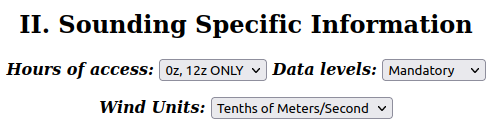
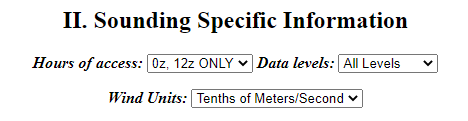
cambios en aermet-mModifico parte de la explicación y mudo aersurface a su propio archivo. En el tutorial aermet solo quedaría el surface.out y el detalle de como llegar al archivo va al aersurface.md

Changed region(s): [[0.0, 0.4215, 0.9872, 0.6198], [0.0299, 0.0992, 0.9573, 0.2975], [0.1795, 0.719, 0.8077, 0.8926]]

diff --git a/tut/aersurface.md b/tut/aersurface.md
@@ -1,0 +1,93 @@
+---
+title: AERSURFACE
+description: Tutorial de preprocesamiento de propiedades de superficie.
+nav_order: 0
+---
+
+
+# Aermod: AERSURFACE
+
+> Tutorial para el preprocesamiento de datos de superficie aermod (**AERSURFACE**)
+
+
+El **AERSURFACE** es un preprocesador que nos permite estimar parámetros de superficie representativos para las cercanías de la estación meteorológica, usando datos de usos de suelo, canopeo e impermeabilidad del suelo.
+Este programa relaciona una clasificación de cobertura del suelo (pastizal, urbano, agua), a una distancia de la estación meteorológica de superficie, para inferir los siguientes parámetos:
+
+1. albedo &alpha;
+2. proporción (ratio) de bowen $B_{0}$
+3. largo de rugosidad de superficie $z_{0}$ 
+
+Este programa necesita datos que requieren un formato de clasificación particular del servicio geológico de estados unidos ([NLCD](https://www.mrlc.gov/)) y que en consecuencia no esta disponible en nuestro país. 
+
+Esta clasificación de cobertura del suelo el USGS define las sifuientes clases:
+
+
+<!-- https://grasswiki.osgeo.org/wiki/File:NLCD_2016_Land_Cover_example.png -->
+|Clase|Descrpición|
+|---|---|
+11|Open Water
+12|Perennial Snow/Ice
+21|Developed, Open Space
+22|Developed, Low Intensity
+23|Developed, Medium Intensity
+24|Developed, High Intensity
+31|Barren Land
+41|Deciduous Forest
+42|Evergreen Forest
+43|Mixed Forest
+52|Shrub/Scrub
+71|Herbaceous
+81|Hay/Pasture
+82|Cultivated Crops
+90|Woody Wetlands
+95|Emergent Herbaceous Wetlands
+
+Para determinar la clase dominante se debe analizar la siguiente información.
+
+1. albedo &alpha;:
+    - Media aritmética de región de 10 km x 10 km centrada en la esración meeorológica. 
+
+2. proporción (ratio) de bowen $B_{0}$
+   - Media *geométrica* de región de 10 km x 10 km centrada en la esración meeorológica.
+ 
+3. largo de rugosidad de superficie $z_{0}$
+   - asd
+
+![aersurface_radio](imgs/aersurface_radio.png)
+
+Cada seccion va a representar una cobertura distinta, con parámetros de albedo, bowen y rugosidad distintas. 
+
+Por estos motivos estamos imposibilitados a usarlo directamente.
+La alternativa de generación de esta información es a partir del procesamiento realizado por el usuario teniendo en cuenta las siguientes directivas. El objetivo es generar el archivo ``AERSURFACE.OUT`` de forma manual, ya que este es un archivo de texto con algunas especificaciones, por ejemplo este es el contenido de un ``AERSURFACE.OUT``:
+
+```Text
+ FREQ_SECT  SEASONAL  3
+   SECTOR   1  0   30
+   SECTOR   2  30  360
+**------------------------------------------------|
+**          | season | section | a0  | b0  | z0   |
+**----------|--------|---------|-----|-----|------|
+   SITE_CHAR    1        1      0.18  0.70  0.01
+   SITE_CHAR    2        1      0.15  0.30  0.015
+   SITE_CHAR    3        1      0.15  0.50  0.02
+   SITE_CHAR    4        1      0.15  0.70  0.015
+   SITE_CHAR    1        2      0.18  1.00  0.30
+   SITE_CHAR    2        2      0.16  0.80  0.40
+   SITE_CHAR    3        2      0.16  0.80  0.40
+   SITE_CHAR    4        2      0.16  0.80  0.40
+**----------|--------|---------|-----|-----|------|
+```
+
+Vemos que se presentan *keywords* y un formato de tabla. Recordemos que ``**`` convierte la línea en un comentario, y por lo tanto no tiene ningún efecto.
+
+Antes de explicar que define cada *keyword* tenemos que saber que vamos a considerar un área circular de 1km de radio alrededor del la estación meteorológica y vamos a definir radialmente secciones con distintas propiedades de la superficie:
+
+
+
+A su vez estas propiedades pueden cambiar en el tiempo: mensual, estacional ó anualmente.
+
+La palabra clave ``FREQ_SECT`` permite definir como queremos que cambien los parámetros de superficie en el tiempo: (``ANNUAL``, ``SEASONAL`` ó ``MONTHLY``)  y el numero de sectores con superficies distintas alrededor de la estación meteorológica.
+
+Con la keyword ``SECTOR`` se define para cada sector cual es el angulo de inicio y fin que lo define. Siempre considerando que el 0 se encuentra en el norte, y que avanza de forma antioraria.
+
+Por último para cada sector y cada season hay que definir los valores de albedo, bowen y rugosidad usando la keyword: ``SITE_CHAR``.

diff --git a/tut/aermet.md b/tut/aermet.md
@@ -80,7 +80,13 @@ Primero nos va a pedir la fecha de inicio y fin de la serie de datos que queremo
 
 ![Raobs Pantalla I](imgs/ruc_raobs_i.png) 
 
-Luego vamos a tener que especificar horas de acceso (seleccionar ``0z, 12z ONLY`` que considerando que argentina es UTC-3 serían 21hs y 9hs), los niveles (seleccionar ``Mandatory``), y las unidades para la velocidad de viento (seleccionar ``Tenths of Meters/Second``) en decenas de metros por segundo.
+Luego vamos a tener que especificar horas de acceso (seleccionar ``0z, 12z ONLY`` que considerando que argentina es UTC-3 serían 21hs y 9hs), los niveles (seleccionar ``All levels``), y las unidades para la velocidad de viento (seleccionar ``Tenths of Meters/Second``) en decenas de metros por segundo.
+<!-- 
+
+hice cambio de los "mandatory" a both, xq en el ppt de apti epa lo aclara:
+Why download both mandatory and significant levels? Too few levels leads to a less accurate estimate of the mixing height from the sounding; this leads to errors in the convective velocity scale (w*) and other calculations that use the mixing height.
+
+-->
 
 ![Raobs Pantalla II](imgs/ruc_raobs_ii.png) 
 
@@ -253,46 +259,6 @@ Vamos a necesitar el archivo [AERSURFACE.OUT](./archivos/aermod/AERSURFACE.OUT) 
 
 ---
 
-#### AERSURFACE:
-
-El **AERSURFACE** es un preprocesador que nos permite estimar parámetros de superficie representativos para las cercanias de la estación meteorológica, usando datos de usos de suelo, canopeo e impermeabilidad del suelo.
-
-Este programa necesita datos que lamentablemente no tenemos con cobertura en todo el país. Y por lo tanto estamos imposibilitados a usarlo. 
-
-Sin embargo se puede generar el archivo ``AERSURFACE.OUT`` de forma manual, ya que este es simplemente un archivo de texto con algunas especificaciones, por ejemplo:
-
-```Text
- FREQ_SECT  SEASONAL  3
-   SECTOR   1  0   30
-   SECTOR   2  30  360
-**------------------------------------------------|
-**          | season | section | a0  | b0  | z0   |
-**----------|--------|---------|-----|-----|------|
-   SITE_CHAR    1        1      0.18  0.70  0.01
-   SITE_CHAR    2        1      0.15  0.30  0.015
-   SITE_CHAR    3        1      0.15  0.50  0.02
-   SITE_CHAR    4        1      0.15  0.70  0.015
-   SITE_CHAR    1        2      0.18  1.00  0.30
-   SITE_CHAR    2        2      0.16  0.80  0.40
-   SITE_CHAR    3        2      0.16  0.80  0.40
-   SITE_CHAR    4        2      0.16  0.80  0.40
-**----------|--------|---------|-----|-----|------|
-```
-Recordar que ``**`` convierte la linea en un comentario, y por lo tanto no tiene ningun efecto.
-
-Antes de explicar que define cada *keyword* tenemos que saber que vamos a considerar un area circular de 1km de radio alrededor del la estación meteorológica y vamos a definir radialmente secciones con distintas propiedades de la superficie:
-
-![aersurface_radio](imgs/aersurface_radio.png)
-
-Cada seccion va a representar una cobertura distinta, con parámetros de albedo, bowen y rugosidad distintas. 
-
-A su vez estas propiedades pueden cambiar en el tiempo: mensual, estacional ó anualmente.
-
-La palabra clave ``FREQ_SECT`` permite definir como queremos que cambien los parámetros de superficie en el tiempo: (``ANNUAL``, ``SEASONAL`` ó ``MONTHLY``)  y el numero de sectores con superficies distintas alrededor de la estación meteorológica.
-
-Con la keyword ``SECTOR`` se define para cada sector cual es el angulo de inicio y fin que lo define. Siempre considerando que el 0 se encuentra en el norte, y que avanza de forma antioraria.
-
-Por último para cada sector y cada season hay que definir los valores de albedo, bowen y rugosidad usando la keyword: ``SITE_CHAR``.
 
 Este archivo lo guardamos con el nombre de ``AERSURFACE.OUT`` (el nombre es solo una convención), e incorporamos al final del archivo ``ETAPA3.INP`` la linea:
 
